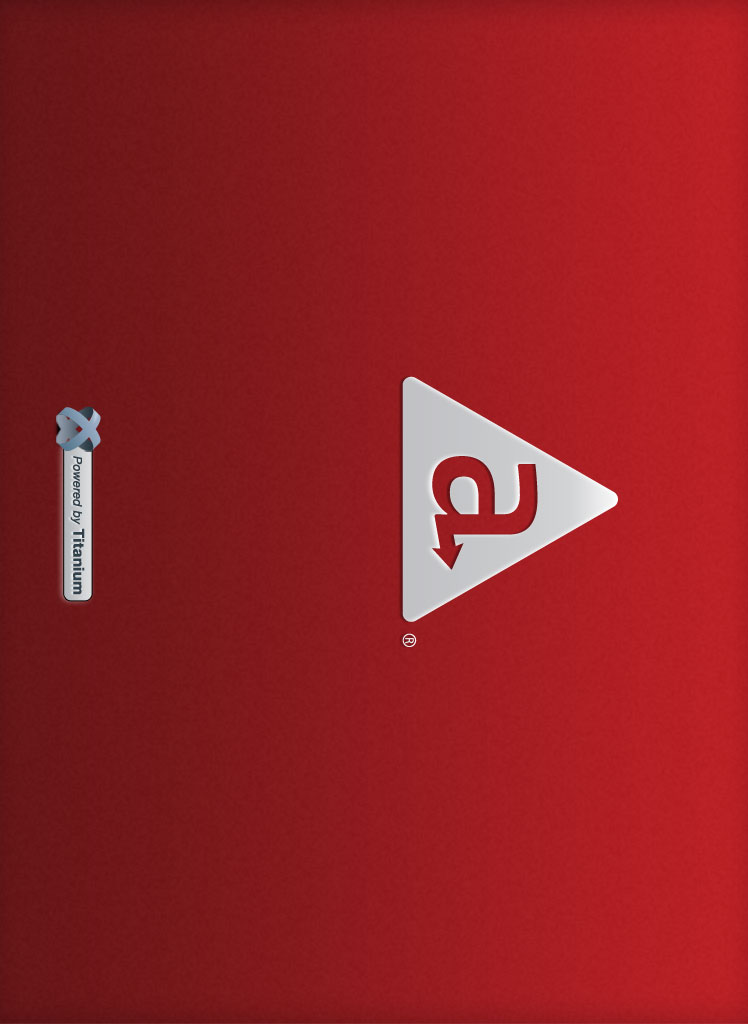
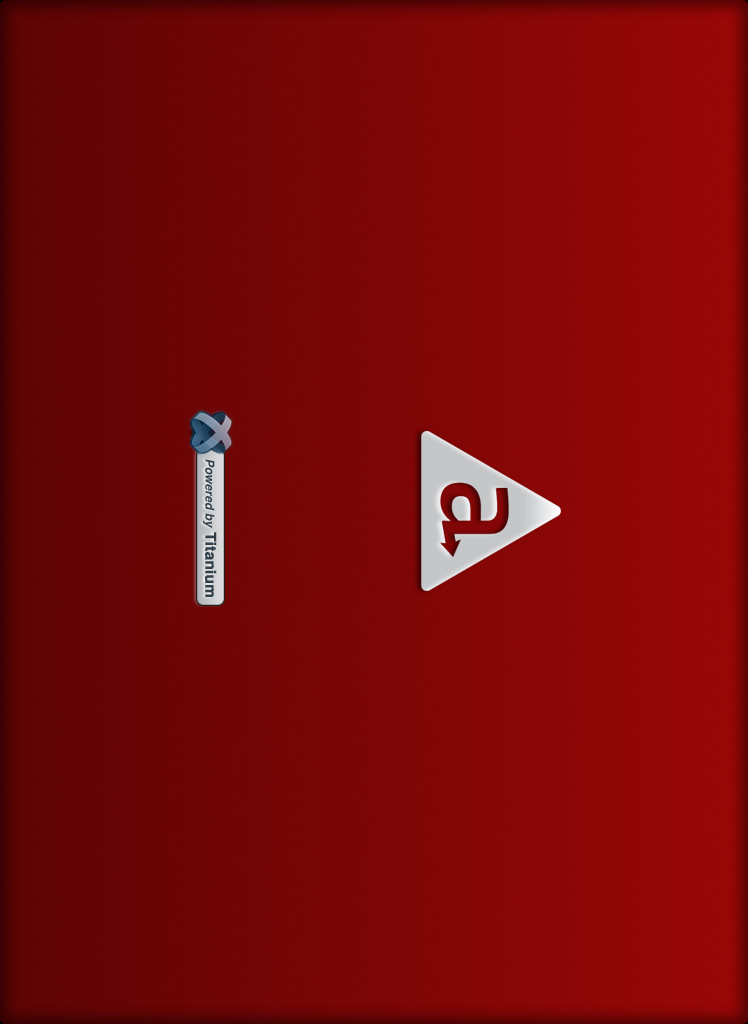
[TIMOB-7944] Fixed apple startup screens.
Former-commit-id: f9fcd6a0487b2b0f375acd67785ad161e13d6bf7

diff --git a/mobileweb/splash/splash.css b/mobileweb/splash/splash.css
@@ -38,3 +38,13 @@
 	bottom: 15%;
 	width: 200px;
 }
+
+@media all and (min-height: 699px) {
+	#splash:before {
+		top: 25%;
+	}
+
+	#splash:after {
+		bottom: 25%;
+	}
+}
